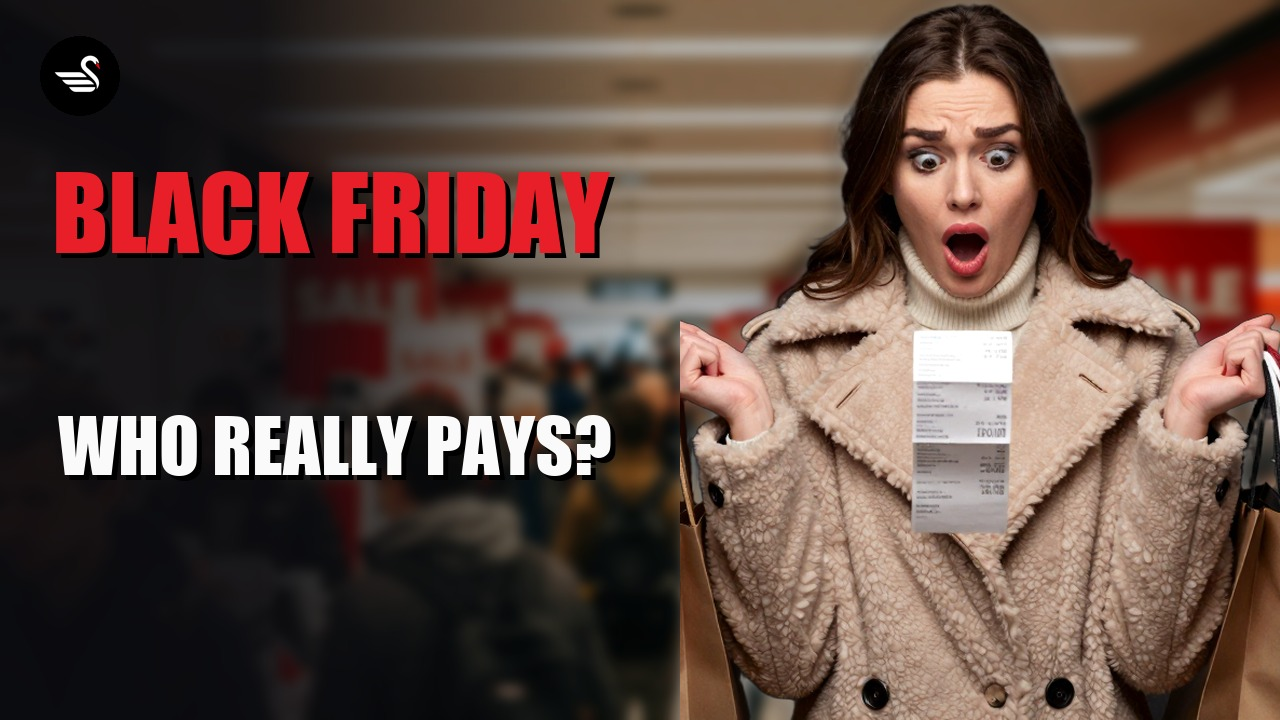
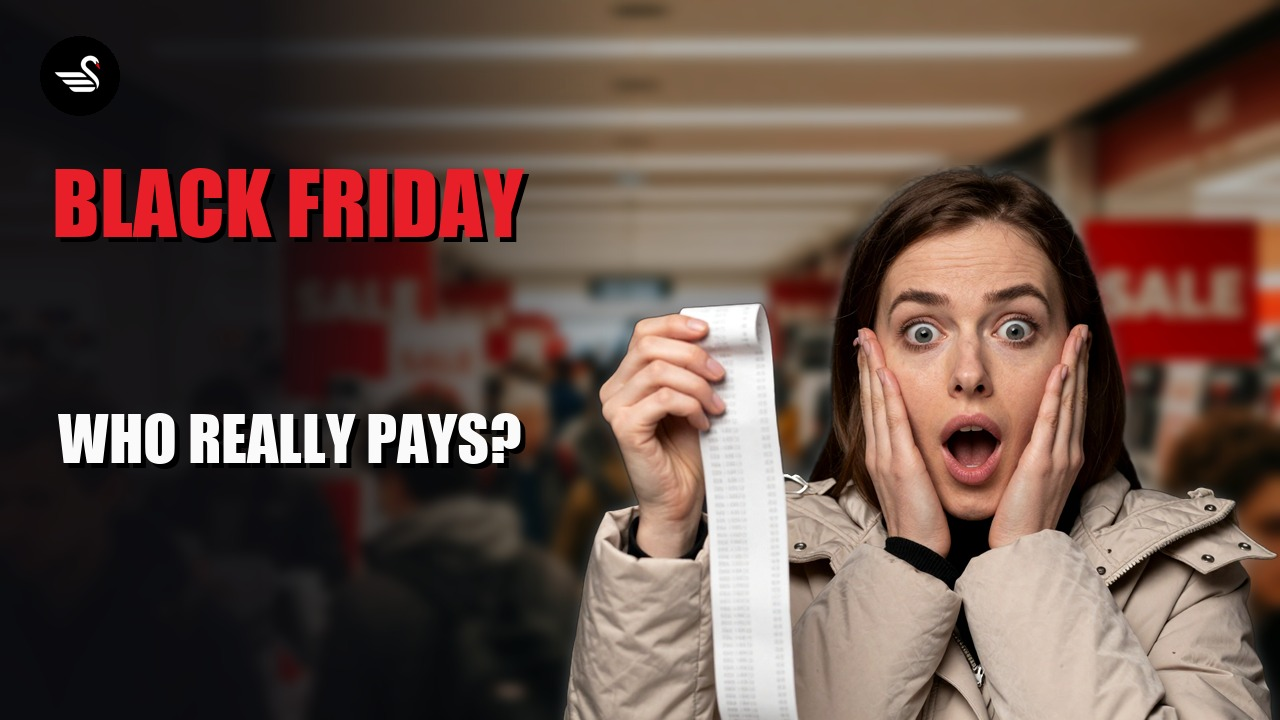
BlackswanVault thumbnails: persoon nooit meer opzij afgeknipt, nooit onder de tekst
Claude-Session: https://claude.ai/code/session_014CuA5TEJcpxSFwGB8toE8c

diff --git a/kanalen/blackswanvault/video7/thumb_v2.py b/kanalen/blackswanvault/video7/thumb_v2.py
@@ -1,0 +1,38 @@
+"""Thumbnail-stijl v2 (20 nov, na vergelijking grote kanalen): 2 korte regels (samen ± 4 woorden), gezicht van voren met emotie
+rechts (uitgeknipt), lichtere/fellere achtergrond, logo linksboven.
+Gebruik: python thumb_v2.py <achtergrond.jpg> <gezicht.jpg|png> <regel1 rood> <regel2 wit> <uit.jpg>"""
+import sys
+from PIL import Image, ImageDraw, ImageFont, ImageFilter, ImageEnhance
+from rembg import remove
+W, H = 1280, 720
+achter, gez, r1, r2, uit = sys.argv[1:6]
+def vul(im):
+    sc = max(W / im.width, H / im.height); im = im.resize((int(im.width * sc), int(im.height * sc)), Image.LANCZOS)
+    return im.crop(((im.width - W) // 2, (im.height - H) // 2, (im.width - W) // 2 + W, (im.height - H) // 2 + H))
+bg = vul(Image.open(achter).convert("RGB")).filter(ImageFilter.GaussianBlur(6))
+bg = ImageEnhance.Color(ImageEnhance.Brightness(bg).enhance(0.8)).enhance(1.3)
+grad = Image.new("L", (W, 1)); [grad.putpixel((x, 0), int(235 * max(0, min(1, (640 - x) / 380)))) for x in range(W)]
+bg = Image.composite(Image.new("RGB", (W, H), (12, 12, 16)), bg, grad.resize((W, H)))
+cut = remove(Image.open(gez).convert("RGB")); rechtsaf = cut.getbbox()[2] >= cut.width - 2; cut = cut.crop(cut.getbbox())
+# 21 nov (eigenaar: "mensen zijn voor de helft afgesneden"): nooit opzij afknippen. De persoon past in de rechterhelft
+# (vanaf x=VAN); alleen als de foto zelf al rechts afloopt, mag hij rechts uit beeld lopen.
+VAN = 560
+sc = min(H / cut.height, (W - VAN) / cut.width)   # nooit links over de tekst
+cut = cut.resize((int(cut.width * sc), int(cut.height * sc)), Image.LANCZOS)
+if cut.height < 0.85 * H: print("LET OP: persoon wordt klein (", cut.height, "px hoog); kies een smallere foto")
+cut = ImageEnhance.Contrast(cut).enhance(1.08)
+x = W - cut.width if rechtsaf else VAN + (W - VAN - cut.width) // 2; y = H - cut.height
+glow = Image.new("RGBA", (W, H), (0, 0, 0, 0)); a = cut.split()[3]
+rand = Image.new("RGBA", cut.size, (255, 255, 255, 0)); rand.putalpha(a.point(lambda v: 200 if v > 10 else 0))
+glow.paste(rand, (x, y), rand); glow = glow.filter(ImageFilter.GaussianBlur(10))
+doek = Image.alpha_composite(bg.convert("RGBA"), glow); doek.paste(cut, (x, y), cut); doek = doek.convert("RGB")
+d = ImageDraw.Draw(doek); F = "C:/Windows/Fonts/impact.ttf"
+def pas(s, maxw, start):
+    n = start
+    while ImageFont.truetype(F, n).getlength(s) > maxw and n > 40: n -= 4
+    return ImageFont.truetype(F, n)
+f1 = pas(r1, VAN - 70, 230); f2 = pas(r2, VAN - 70, 150)
+for dx, dy in [(5, 5)]: d.text((52 + dx, 150 + dy), r1, font=f1, fill=(0, 0, 0)); d.text((58 + dx, 400 + dy), r2, font=f2, fill=(0, 0, 0))
+d.text((52, 150), r1, font=f1, fill=(232, 30, 40)); d.text((58, 400), r2, font=f2, fill=(250, 250, 250))
+logo = Image.open("logo.png").convert("RGB").resize((80, 80)); m = Image.new("L", (80, 80), 0); ImageDraw.Draw(m).ellipse([0, 0, 79, 79], fill=255)
+doek.paste(logo, (40, 36), m); doek.save(uit, quality=92); print(uit)

diff --git a/kanalen/blackswanvault/video8/thumb_v2.py b/kanalen/blackswanvault/video8/thumb_v2.py
@@ -1,0 +1,38 @@
+"""Thumbnail-stijl v2 (20 nov, na vergelijking grote kanalen): 2 korte regels (samen ± 4 woorden), gezicht van voren met emotie
+rechts (uitgeknipt), lichtere/fellere achtergrond, logo linksboven.
+Gebruik: python thumb_v2.py <achtergrond.jpg> <gezicht.jpg|png> <regel1 rood> <regel2 wit> <uit.jpg>"""
+import sys
+from PIL import Image, ImageDraw, ImageFont, ImageFilter, ImageEnhance
+from rembg import remove
+W, H = 1280, 720
+achter, gez, r1, r2, uit = sys.argv[1:6]
+def vul(im):
+    sc = max(W / im.width, H / im.height); im = im.resize((int(im.width * sc), int(im.height * sc)), Image.LANCZOS)
+    return im.crop(((im.width - W) // 2, (im.height - H) // 2, (im.width - W) // 2 + W, (im.height - H) // 2 + H))
+bg = vul(Image.open(achter).convert("RGB")).filter(ImageFilter.GaussianBlur(6))
+bg = ImageEnhance.Color(ImageEnhance.Brightness(bg).enhance(0.8)).enhance(1.3)
+grad = Image.new("L", (W, 1)); [grad.putpixel((x, 0), int(235 * max(0, min(1, (640 - x) / 380)))) for x in range(W)]
+bg = Image.composite(Image.new("RGB", (W, H), (12, 12, 16)), bg, grad.resize((W, H)))
+cut = remove(Image.open(gez).convert("RGB")); rechtsaf = cut.getbbox()[2] >= cut.width - 2; cut = cut.crop(cut.getbbox())
+# 21 nov (eigenaar: "mensen zijn voor de helft afgesneden"): nooit opzij afknippen. De persoon past in de rechterhelft
+# (vanaf x=VAN); alleen als de foto zelf al rechts afloopt, mag hij rechts uit beeld lopen.
+VAN = 560
+sc = min(H / cut.height, (W - VAN) / cut.width)   # nooit links over de tekst
+cut = cut.resize((int(cut.width * sc), int(cut.height * sc)), Image.LANCZOS)
+if cut.height < 0.85 * H: print("LET OP: persoon wordt klein (", cut.height, "px hoog); kies een smallere foto")
+cut = ImageEnhance.Contrast(cut).enhance(1.08)
+x = W - cut.width if rechtsaf else VAN + (W - VAN - cut.width) // 2; y = H - cut.height
+glow = Image.new("RGBA", (W, H), (0, 0, 0, 0)); a = cut.split()[3]
+rand = Image.new("RGBA", cut.size, (255, 255, 255, 0)); rand.putalpha(a.point(lambda v: 200 if v > 10 else 0))
+glow.paste(rand, (x, y), rand); glow = glow.filter(ImageFilter.GaussianBlur(10))
+doek = Image.alpha_composite(bg.convert("RGBA"), glow); doek.paste(cut, (x, y), cut); doek = doek.convert("RGB")
+d = ImageDraw.Draw(doek); F = "C:/Windows/Fonts/impact.ttf"
+def pas(s, maxw, start):
+    n = start
+    while ImageFont.truetype(F, n).getlength(s) > maxw and n > 40: n -= 4
+    return ImageFont.truetype(F, n)
+f1 = pas(r1, VAN - 70, 230); f2 = pas(r2, VAN - 70, 150)
+for dx, dy in [(5, 5)]: d.text((52 + dx, 150 + dy), r1, font=f1, fill=(0, 0, 0)); d.text((58 + dx, 400 + dy), r2, font=f2, fill=(0, 0, 0))
+d.text((52, 150), r1, font=f1, fill=(232, 30, 40)); d.text((58, 400), r2, font=f2, fill=(250, 250, 250))
+logo = Image.open("logo.png").convert("RGB").resize((80, 80)); m = Image.new("L", (80, 80), 0); ImageDraw.Draw(m).ellipse([0, 0, 79, 79], fill=255)
+doek.paste(logo, (40, 36), m); doek.save(uit, quality=92); print(uit)

diff --git a/kanalen/blackswanvault/video9/thumb_v2.py b/kanalen/blackswanvault/video9/thumb_v2.py
@@ -1,0 +1,38 @@
+"""Thumbnail-stijl v2 (20 nov, na vergelijking grote kanalen): 2 korte regels (samen ± 4 woorden), gezicht van voren met emotie
+rechts (uitgeknipt), lichtere/fellere achtergrond, logo linksboven.
+Gebruik: python thumb_v2.py <achtergrond.jpg> <gezicht.jpg|png> <regel1 rood> <regel2 wit> <uit.jpg>"""
+import sys
+from PIL import Image, ImageDraw, ImageFont, ImageFilter, ImageEnhance
+from rembg import remove
+W, H = 1280, 720
+achter, gez, r1, r2, uit = sys.argv[1:6]
+def vul(im):
+    sc = max(W / im.width, H / im.height); im = im.resize((int(im.width * sc), int(im.height * sc)), Image.LANCZOS)
+    return im.crop(((im.width - W) // 2, (im.height - H) // 2, (im.width - W) // 2 + W, (im.height - H) // 2 + H))
+bg = vul(Image.open(achter).convert("RGB")).filter(ImageFilter.GaussianBlur(6))
+bg = ImageEnhance.Color(ImageEnhance.Brightness(bg).enhance(0.8)).enhance(1.3)
+grad = Image.new("L", (W, 1)); [grad.putpixel((x, 0), int(235 * max(0, min(1, (640 - x) / 380)))) for x in range(W)]
+bg = Image.composite(Image.new("RGB", (W, H), (12, 12, 16)), bg, grad.resize((W, H)))
+cut = remove(Image.open(gez).convert("RGB")); rechtsaf = cut.getbbox()[2] >= cut.width - 2; cut = cut.crop(cut.getbbox())
+# 21 nov (eigenaar: "mensen zijn voor de helft afgesneden"): nooit opzij afknippen. De persoon past in de rechterhelft
+# (vanaf x=VAN); alleen als de foto zelf al rechts afloopt, mag hij rechts uit beeld lopen.
+VAN = 560
+sc = min(H / cut.height, (W - VAN) / cut.width)   # nooit links over de tekst
+cut = cut.resize((int(cut.width * sc), int(cut.height * sc)), Image.LANCZOS)
+if cut.height < 0.85 * H: print("LET OP: persoon wordt klein (", cut.height, "px hoog); kies een smallere foto")
+cut = ImageEnhance.Contrast(cut).enhance(1.08)
+x = W - cut.width if rechtsaf else VAN + (W - VAN - cut.width) // 2; y = H - cut.height
+glow = Image.new("RGBA", (W, H), (0, 0, 0, 0)); a = cut.split()[3]
+rand = Image.new("RGBA", cut.size, (255, 255, 255, 0)); rand.putalpha(a.point(lambda v: 200 if v > 10 else 0))
+glow.paste(rand, (x, y), rand); glow = glow.filter(ImageFilter.GaussianBlur(10))
+doek = Image.alpha_composite(bg.convert("RGBA"), glow); doek.paste(cut, (x, y), cut); doek = doek.convert("RGB")
+d = ImageDraw.Draw(doek); F = "C:/Windows/Fonts/impact.ttf"
+def pas(s, maxw, start):
+    n = start
+    while ImageFont.truetype(F, n).getlength(s) > maxw and n > 40: n -= 4
+    return ImageFont.truetype(F, n)
+f1 = pas(r1, VAN - 70, 230); f2 = pas(r2, VAN - 70, 150)
+for dx, dy in [(5, 5)]: d.text((52 + dx, 150 + dy), r1, font=f1, fill=(0, 0, 0)); d.text((58 + dx, 400 + dy), r2, font=f2, fill=(0, 0, 0))
+d.text((52, 150), r1, font=f1, fill=(232, 30, 40)); d.text((58, 400), r2, font=f2, fill=(250, 250, 250))
+logo = Image.open("logo.png").convert("RGB").resize((80, 80)); m = Image.new("L", (80, 80), 0); ImageDraw.Draw(m).ellipse([0, 0, 79, 79], fill=255)
+doek.paste(logo, (40, 36), m); doek.save(uit, quality=92); print(uit)
